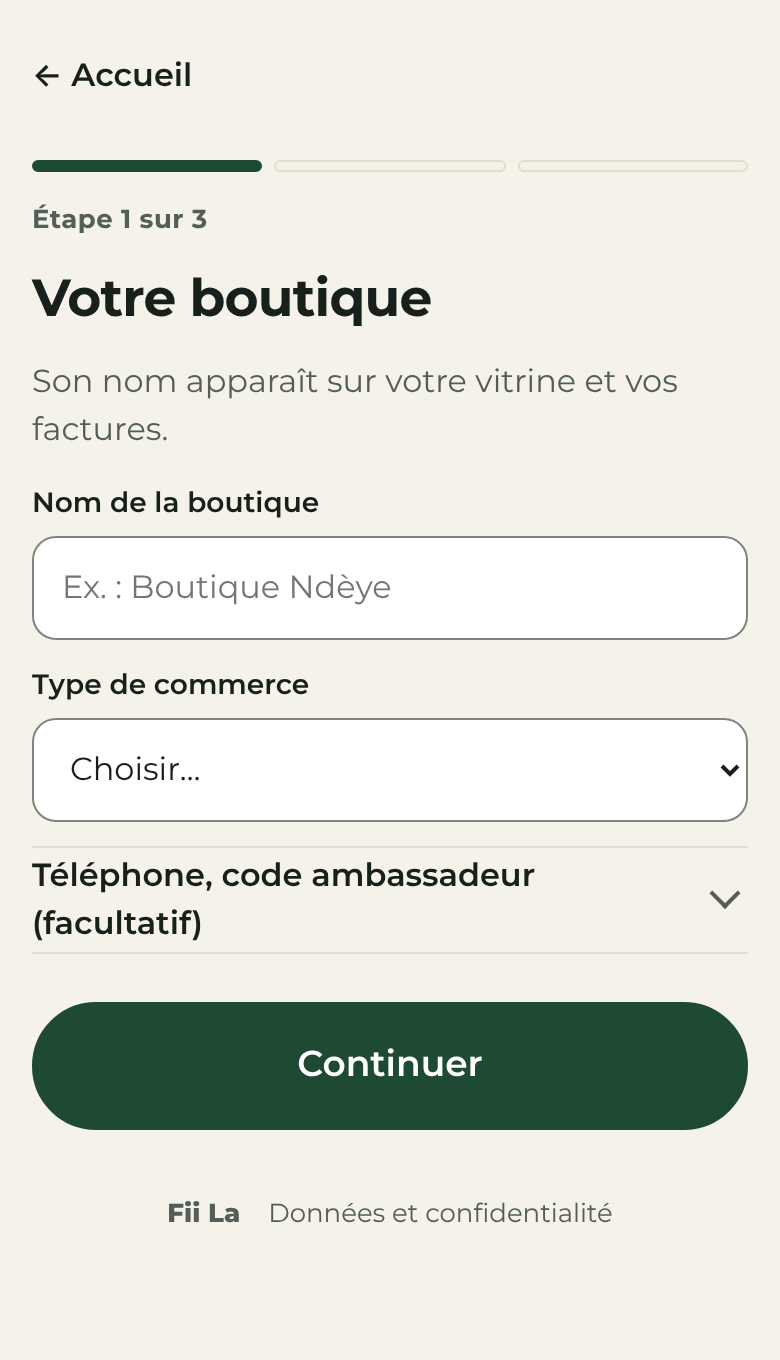
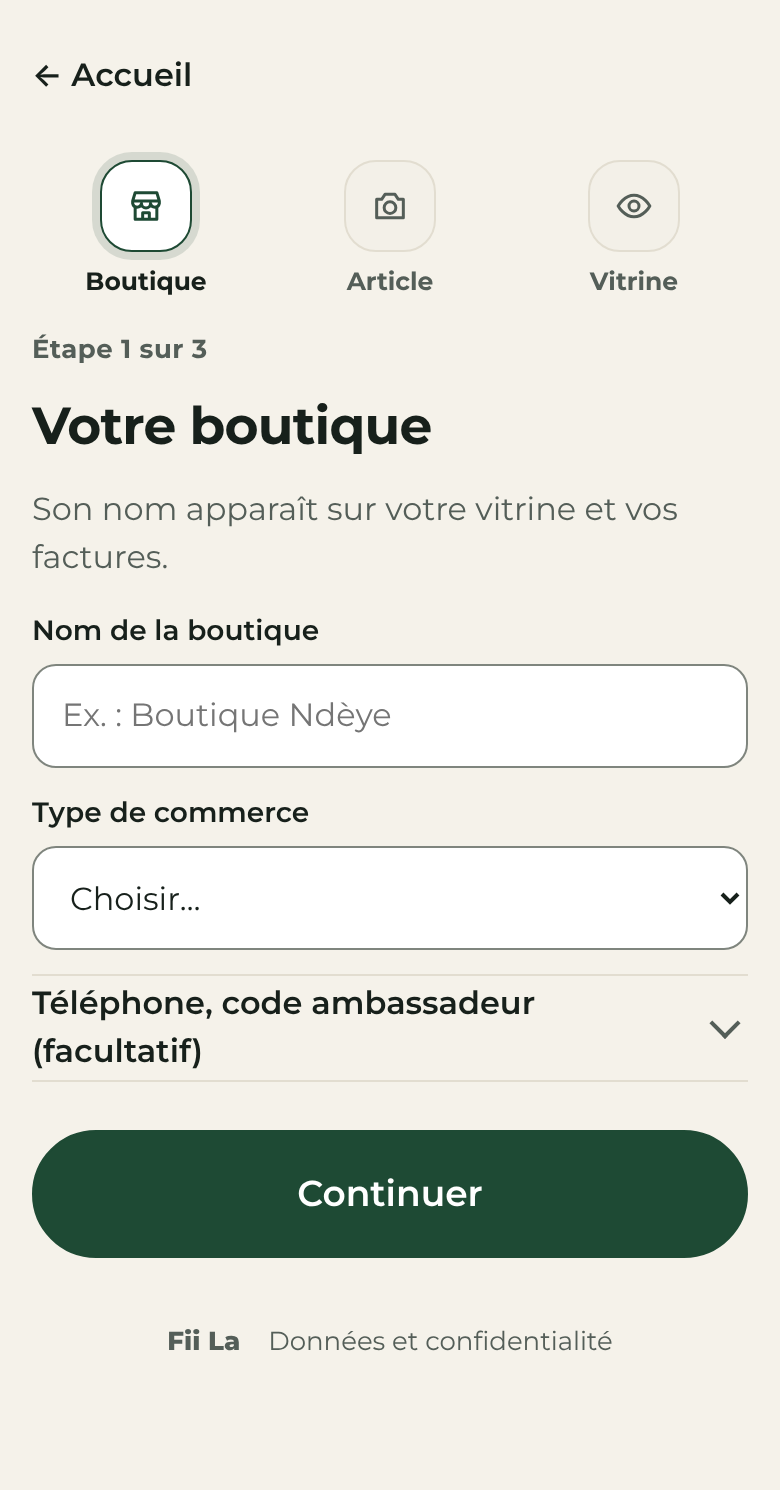
Accueil v2 (lot 3) : découverte après une action ; démarrage de la boutique ludique (badges, cartes de félicitations, carte finale)
Claude-Session: https://claude.ai/code/session_017YReozxuCfYpxhCwcYgwRE

diff --git a/web/app.js b/web/app.js
@@ -622,7 +622,7 @@
     var c = LS.get('fiila.flags', null);
     if (c && Date.now() - c.at < 6 * 3600e3) NUDGE_FLAGS = c.v;
     if (!c || Date.now() - c.at >= 6 * 3600e3) api('fiila_app_flags', {}).then(function (v) { NUDGE_FLAGS = v; LS.set('fiila.flags', { at: Date.now(), v: v }); }, function () {});
-    return NUDGE_FLAGS || { nudges: true, onboarding: true };
+    return NUDGE_FLAGS || { nudges: true, onboarding: true, discover: true };
   }
   function nudgeState() {
     var st = LS.get('fiila.nudges', null) || {};
@@ -772,6 +772,36 @@
       h('a', { class: 'invite-row', id: 'invite-link', href: '#/parrainer', onclick: function () { close(); } }, icon('gift', 24), h('span', null, 'Inviter un proche'),
         h('span', { class: 'chev', 'aria-hidden': 'true' }, icon('chev', 18)))));
     close = openSheet(back);
+  }
+  /* ----- Découverte après une action (accueil v2, lot 3). La tâche du lien reste l'action principale ; dessous, une seule
+     proposition discrète et masquable, plus « Voir tous les services » (arbitrage A2 du fondateur, 20/10 23:36).
+     « × » = 7 jours de silence pour ce contexte, deux fois = plus jamais. Réglage du back-office discover_after (0 = rien). */
+  var AFTER_LS = 'fiila.after';
+  var AFTER_CTX = ['order', 'sent', 'course'];
+  TRACKABLE.discover = [];
+  AFTER_CTX.forEach(function (c) { ['shown', 'click', 'hide', 'all'].forEach(function (a) { TRACKABLE.discover.push(c + ':' + a); }); });
+  ['fiche', 'event'].forEach(function (c) { TRACKABLE.discover.push(c + ':all'); });
+  function afterOn() { var f = nudgeFlags(); return onboardingOn() && f.discover !== false; }
+  function servicesLink(ctx) {
+    return h('button', { class: 'after-all', type: 'button', id: 'after-all', onclick: function () { track('discover', ctx + ':all'); servicesSheet(); } }, 'Voir tous les services');
+  }
+  // o : { icon, title, cta, href }
+  function afterTask(ctx, o) {
+    if (!afterOn()) return null;
+    var st = LS.get(AFTER_LS, null) || {}, me = st[ctx] || {};
+    if ((me.d || 0) >= 2 || (me.until && Date.now() < me.until)) return null;
+    var box = h('aside', { class: 'after', id: 'after-' + ctx, 'aria-label': 'Suggestion' },
+      h('span', { class: 'after-ic', 'aria-hidden': 'true' }, icon(o.icon, 20)),
+      h('div', { class: 'after-t' }, h('b', null, o.title),
+        h('div', { class: 'after-row' },
+          h('a', { class: 'after-cta', id: 'after-' + ctx + '-go', href: o.href, onclick: function () { track('discover', ctx + ':click'); } }, o.cta, icon('chev', 14)),
+          servicesLink(ctx))),
+      h('button', { class: 'after-x', type: 'button', 'aria-label': 'Masquer', id: 'after-' + ctx + '-hide', onclick: function () {
+        var x = LS.get(AFTER_LS, null) || {}; var m = x[ctx] || {}; m.d = (m.d || 0) + 1; m.until = Date.now() + 7 * 864e5; x[ctx] = m; LS.set(AFTER_LS, x);
+        track('discover', ctx + ':hide'); box.remove();
+      } }, icon('close', 16)));
+    trackWhenVisible(box, 'discover', ctx + ':shown');
+    return box;
   }
   // « Installer l'app » : à partir de la deuxième visite (une visite = une session du navigateur).
   function visitCount() {
@@ -3820,7 +3850,9 @@
       if (r.state !== 'ok') return page(stateCard('⦸', 'Lien livreur indisponible', 'L’adresse a été désactivée ou le lien n’est pas valide.'), footer());
       var pg = page(courierKey() ? backBtn('Mes courses', '#/livreur') : null, h('p', { class: 'eyebrow' }, 'Livraison'),
         liveShare(token, r.place.entry, { kind: 'courier', title: 'Prêt à partir ?', startLabel: 'Démarrer la livraison', who: 'L’expéditeur et le client voient', initial: r.status }),
-        fiche(r.place, { wide: true, voice: r.place.has_voice ? voicePlayer(voiceFrom(token, 'course'), r.place.voice_secs) : null }), footer(true));
+        fiche(r.place, { wide: true, voice: r.place.has_voice ? voicePlayer(voiceFrom(token, 'course'), r.place.voice_secs) : null }),
+        courierKey() ? null : afterTask('course', { icon: 'moto', title: 'Vous livrez souvent ?', cta: 'Mon espace livreur : toutes vos courses', href: '#/livreur' }),
+        footer(true));
       pg.classList.add('wide');
       return pg;
     }, function (e) { return page(stateCard('!', 'Impossible d’afficher la livraison', errText(e), retryBtn())); });
@@ -3935,7 +3967,8 @@
         : 'La porte, un repère, où se garer. Un lien à envoyer.'),
       h('a', { class: 'btn ghost discover-cta', id: 'discover-cta', href: (isMeeting ? '#/rdv/nouveau' : '#/new') + qs({ retour: token }),
         onclick: function () { track('discovery_cta', variant); } }, icon(isMeeting ? 'cal' : 'cam', 22), h('span', null, isMeeting ? 'Créer un événement' : 'Créer mon adresse')),
-      h('p', { class: 'hint' }, 'Gratuit. Sans compte.'));
+      h('p', { class: 'hint' }, 'Gratuit. Sans compte.'),
+      afterOn() ? servicesLink(isMeeting ? 'event' : 'fiche') : null);
     trackWhenVisible(block, 'discovery_shown', variant);
     return block;
   }
@@ -4048,6 +4081,8 @@
         iconBtn('a', { class: 'btn', id: 'share-relatives', href: waLink('Mon adresse, avec la photo de l’entrée : ' + url), target: '_blank', rel: 'noopener noreferrer',
           onclick: function () { track('share_initiated', 'whatsapp_address'); } }, 'chat', 'Envoyer sur WhatsApp'),
         h('a', { class: 'btn link', href: '#/m/' + placeId, style: 'align-self:flex-start' }, 'Voir mon adresse')) : null,
+      backInvoice ? (shopKey() || (ME && ME.shop) ? null : afterTask('order', { icon: 'shop', title: 'Vous vendez aussi ?', cta: 'Ouvrir ma boutique gratuite', href: '#/boutique' }))
+        : afterTask('sent', { icon: 'ask', title: 'Vous livrez ou vendez ?', cta: 'Demander l’adresse de vos clients', href: '#/demande/nouvelle' }),
       feedSection(2, { id: 'done-feed', title: 'Boutiques à découvrir', sub: 'Commandez sans compte, livré à la bonne porte.' }),
       !authed() && sent >= 2 ? nudgeCard('sent-nudge', 'Gardez vos adresses', 'Retrouvez-les même si vous changez de téléphone.',
         '#/compte' + qs({ mode: 'inscription', source: 'nudge' }), function () { LS.set('fiila.nudge.until', Date.now() + 14 * 864e5); }) : null,
@@ -4735,11 +4770,32 @@
   ['name:done', 'product:done', 'product:skip', 'vitrine:open', 'share:click', 'resume:open'].forEach(function (v) { (TRACKABLE.shop_setup = TRACKABLE.shop_setup || []).push(v); });
   function setupState() { return LS.get(SETUP_LS, null) || {}; }
   function setupPending() { var st = setupState(); return !!(st.started && !st.done && (shopKey() || (ME && ME.shop))); }
+  // Trois badges qui se débloquent (fondateur, 21/10 00:47 : « des cartes dynamiques gratifiantes… rendre ça amusant »).
+  var SETUP_BADGES = [['shop', 'Boutique'], ['cam', 'Article'], ['eye', 'Vitrine']];
+  function setupBadges(n) {
+    return h('ol', { class: 'setup-badges', role: 'progressbar', 'aria-valuemin': '1', 'aria-valuemax': '3', 'aria-valuenow': String(n), 'aria-label': 'Étape ' + n + ' sur 3' },
+      SETUP_BADGES.map(function (b, i) {
+        var st = i + 1 < n ? 'done' : i + 1 === n ? 'now' : 'next';
+        return h('li', { class: 'sb sb-' + st }, h('span', { class: 'sb-ic', 'aria-hidden': 'true' }, icon(st === 'done' ? 'check' : b[0], 20)), h('span', { class: 'sb-l' }, b[1]));
+      }));
+  }
+  // Carte de félicitations de l'étape qui vient d'être franchie (une seule fois).
+  function setupWin(n) {
+    var st = setupState();
+    if (!st.just || st.just.step !== n - 1) return null;
+    var j = st.just; delete st.just; LS.set(SETUP_LS, st);
+    var t = n === 2 ? ['Étape 1 réussie', '« ' + j.name + ' » est créée', 'Prochaine étape : votre premier article. Une photo et un prix suffisent.']
+      : ['Étape 2 réussie', 'Votre premier article est prêt', 'Dernière étape : ouvrir votre vitrine. Vos clientes pourront commander.'];
+    return h('section', { class: 'setup-win', id: 'setup-win', role: 'status' },
+      h('span', { class: 'setup-win-ic', 'aria-hidden': 'true' }, icon('check', 24)),
+      h('div', null, h('p', { class: 'setup-win-k' }, t[0]), h('b', { class: 'wrapword' }, t[1]), h('span', null, t[2])),
+      h('span', { class: 'setup-win-spark', 'aria-hidden': 'true' }, h('i'), h('i'), h('i'), h('i'), h('i')));
+  }
   function setupFrame(n, title, text, body) {
     return page(backBtn(n === 1 ? 'Accueil' : 'Ma boutique', n === 1 ? '#/' : '#/boutique'),
       h('section', { class: 'setup', id: 'shop-setup', 'data-step': String(n) },
-        h('div', { class: 'setup-prog', role: 'progressbar', 'aria-valuemin': '1', 'aria-valuemax': '3', 'aria-valuenow': String(n), 'aria-label': 'Étape ' + n + ' sur 3' },
-          [1, 2, 3].map(function (i) { return h('i', { class: i <= n ? 'on' : null }); })),
+        setupBadges(n),
+        setupWin(n),
         h('p', { class: 'setup-step' }, 'Étape ' + n + ' sur 3'),
         h('h1', null, title), text ? h('p', { class: 'muted' }, text) : null,
         body),
@@ -4757,7 +4813,7 @@
       sapi('fiila_shop_save', { p: { name: f.name.trim(), phone: f.phone.trim() || null, ninea: null, business_type: f.type } }).then(function (r) {
         if (r && r.key) LS.set(SHOP_LS, { id: r.shop.id, key: r.key, linked: authed() || undefined });
         track('shop_created', authed() ? 'account' : 'no_account'); bumpTx(); attribute('shop', null, r.key || shopKey(), ask.value());
-        track('shop_setup', 'name:done'); LS.set(SETUP_LS, { started: Date.now() });
+        track('shop_setup', 'name:done'); LS.set(SETUP_LS, { started: Date.now(), just: { step: 1, name: f.name.trim() } });
         if (ambCode.trim()) api('fiila_ambassador_link', { p_key: r.key || shopKey(), p_code: ambCode.trim() }).then(function (x) { toast('Boutique créée, accompagnée par ' + x.ambassador + '.'); }, function (e) { toast('Boutique créée. Code ambassadeur : ' + errText(e)); });
         ME = null; go('#/boutique/demarrer');
       }, function (e) { btn.disabled = false; errBox(err, e); });
@@ -4800,6 +4856,7 @@
         return sapi('fiila_product_save', { p: p });
       }).then(function () {
         track('product_created', photos.count() ? 'photo' : 'no_photo'); track('shop_setup', 'product:done');
+        var st = setupState(); st.just = { step: 2 }; LS.set(SETUP_LS, st);
         render();
       }, function (e) { btn.disabled = false; errBox(err, e); });
     } }, 'Continuer');
@@ -4819,7 +4876,13 @@
       sapi('fiila_shop_vitrine', { p: { public: true } }).then(function (r) {
         FEED_CACHE = null; track('shop_setup', 'vitrine:open');
         shop.public = true; shop.slug = r.slug;
-        render();
+        // Grande carte de félicitations, avec la place gratuite du fil si la boutique en obtient une.
+        sapi('fiila_shop_feed', { p_on: null }).then(null, function () { return null; }).then(function (fd) {
+          celebrate({ icon: 'star', kicker: 'Boutique ouverte', title: 'Bravo, ' + shop.name + ' est en ligne !',
+            gain: fd && fd.rank ? 'Place n° ' + fd.rank + ' / 25' : null,
+            sub: (fd && fd.rank ? 'Votre place offerte dans le fil Fii La. ' : '') + 'Vos clientes peuvent commander dès maintenant, sans compte, et vous donner leur adresse exacte.',
+            cta: 'Partager ma vitrine', onClose: function () { render(); } });
+        });
       }, function (e) { btn.disabled = false; errBox(err, e); });
     } }, 'Ouvrir ma vitrine');
     return setupFrame(3, 'Votre vitrine', 'Voici ce que verront vos clientes. Elles commandent sans compte et donnent leur adresse à la fin.', h('div', { class: 'stack' },
@@ -5812,6 +5875,10 @@
           h('p', { class: 'saved-ok' }, icon('check', 18), 'Commande envoyée à ' + s.name + '.'),
           h('p', { class: 'small muted' }, o.address_state === 'pending' ? 'Dernière étape : donnez votre adresse de livraison.' : 'La boutique a votre commande.'),
           s.phone ? iconBtn('a', { class: 'btn ghost', id: 'notify-shop', href: waTo(s.phone, 'Bonjour, je viens de commander (N° ' + o.ref + ') : ' + invUrl), target: '_blank', rel: 'noopener noreferrer' }, 'chat', 'Prévenir la boutique sur WhatsApp') : null));
+      }
+      if (q && q.nouvelle === '1' && o.address_state !== 'pending' && !shopKey() && !(ME && ME.shop)) {
+        var at = afterTask('order', { icon: 'shop', title: 'Vous vendez aussi ?', cta: 'Ouvrir ma boutique gratuite', href: '#/boutique' });
+        if (at) act.push(h('div', { class: 'no-print' }, at));
       }
       if (o.address_state === 'pending' && o.request_token && !delivered) {
         act.push(iconBtn('a', { class: 'btn big no-print', id: 'give-address-btn', href: '#/d/' + o.request_token + qs({ f: token }) }, 'pin', 'Donner mon adresse de livraison'));
@@ -7626,6 +7693,20 @@
               h('div', { class: 'wal-bar', 'aria-hidden': 'true' }, h('i', { class: 'paid', style: 'width:' + pct + '%' })));
           }));
       })(),
+      (function () {
+        var dv = d.discover || {};
+        var ctx = [['order', 'Après une commande → ouvrir sa boutique'], ['sent', 'Après une adresse envoyée → demander une adresse'], ['course', 'Après une course → espace livreur'],
+          ['fiche', 'Fiche reçue'], ['event', 'Événement reçu']];
+        function v(c, a) { return Number(dv[c + ':' + a] || 0); }
+        return h('div', { class: 'stack tight', id: 'bo-discover' },
+          h('div', { class: 'bo-panel-h' }, h('h3', null, 'Découverte après une action'), d.discover_on === false ? boBadge('muted', 'Coupée (Réglages)') : boBadge('ok', 'Active')),
+          boTable([
+            { label: 'Contexte', get: function (x) { return x[1]; } },
+            { label: 'Vue', get: function (x) { return x[0] === 'fiche' || x[0] === 'event' ? '—' : boNum(v(x[0], 'shown')); }, cls: 'num' },
+            { label: 'Suivie', get: function (x) { return x[0] === 'fiche' || x[0] === 'event' ? '—' : boNum(v(x[0], 'click')); }, cls: 'num' },
+            { label: 'Tous les services', get: function (x) { return boNum(v(x[0], 'all')); }, cls: 'num' },
+            { label: 'Masquée', get: function (x) { return x[0] === 'fiche' || x[0] === 'event' ? '—' : boNum(v(x[0], 'hide')); }, cls: 'num' }], ctx, { id: 'bo-discover-table' }));
+      })(),
       h('p', { class: 'small muted' }, 'Tâches réussies sur la même période (tous parcours confondus) :'),
       h('div', { class: 'bo-type-chips' }, tasks.map(function (x) { return h('span', { class: 'chip' }, x[0] + ' : ' + boNum(x[1] || 0)); })),
       h('div', { class: 'row' },
@@ -7753,7 +7834,8 @@
     sms_verify: ['Code SMS obligatoire pour rejoindre une équipe de boutique', '0 = non, 1 = oui'],
     amb_manager_llm: ['Manager Fii La Carrière avec IA (clé d’API à saisir dans Supabase)', '0 = non, 1 = oui'],
     nudges: ['Suggestions discrètes dans l’application (découverte progressive)', '0 = non, 1 = oui'],
-    onboarding_v2: ['Nouvel accueil (mes activités, « Découvrir les services »)', '1 = nouvel accueil, 0 = ancien'] };
+    onboarding_v2: ['Nouvel accueil (mes activités, « Découvrir les services »)', '1 = nouvel accueil, 0 = ancien'],
+    discover_after: ['Suggestion discrète après une action (commande, adresse envoyée, course)', '0 = non, 1 = oui'] };
   // « Prénom · rôle » tel que gardé au journal, avec le rôle en clair.
   function boActor(a) { return String(a || '—').replace(/ · ([a-z_]+)$/, function (m, r) { return ' · ' + (BO_ROLES[r] || r); }); }
   function boActionLabel(a, d) {

diff --git a/web/styles.css b/web/styles.css
@@ -1613,9 +1613,6 @@ kbd{font:600 11.5px/1 ui-monospace,SFMono-Regular,Menlo,monospace;padding:4px 6p
 /* Démarrage guidé de la boutique (lot 2, 21/10) : une carte par étape, progression, un bouton principal. */
 .setup{display:flex;flex-direction:column;gap:14px}
 .setup h1{margin:0}
-.setup-prog{display:grid;grid-template-columns:repeat(3,1fr);gap:6px}
-.setup-prog i{height:6px;border-radius:6px;background:var(--surface-2);border:1px solid var(--line)}
-.setup-prog i.on{background:var(--green);border-color:var(--green)}
 .setup-step{margin:0;font-size:13px;font-weight:700;color:var(--muted);letter-spacing:.02em}
 .setup-later{align-self:center;padding:10px 14px;color:var(--muted);font-size:14px;text-decoration:underline}
 .setup-preview{border-radius:22px;background:var(--surface);border:1px solid var(--line);padding:14px;display:flex;flex-direction:column;gap:12px;box-shadow:var(--shadow-card)}
@@ -1630,3 +1627,37 @@ kbd{font:600 11.5px/1 ui-monospace,SFMono-Regular,Menlo,monospace;padding:4px 6p
 .setup-ok .btn{align-self:stretch}
 @keyframes setup-pop{from{transform:scale(.6);opacity:0}to{transform:none;opacity:1}}
 @media (prefers-reduced-motion: reduce){.setup-ok-ic{animation:none}}
+.setup-badges{list-style:none;margin:0;padding:0;display:grid;grid-template-columns:repeat(3,1fr);gap:8px}
+.sb{display:flex;flex-direction:column;align-items:center;gap:6px;font-size:12.5px;font-weight:700;color:var(--muted)}
+.sb-ic{width:46px;height:46px;border-radius:16px;display:flex;align-items:center;justify-content:center;background:var(--surface-2);border:1.5px solid var(--line);color:var(--muted);transition:transform .3s}
+.sb-now .sb-ic{background:var(--surface);border-color:var(--green);color:var(--green);box-shadow:0 0 0 4px color-mix(in srgb,var(--green) 14%,transparent)}
+.sb-now{color:var(--ink)}
+.sb-done .sb-ic{background:var(--green);border-color:var(--green);color:var(--lime);animation:setup-pop .45s cubic-bezier(.22,.61,.36,1)}
+.sb-done{color:var(--green)}
+.setup-win{position:relative;overflow:hidden;display:flex;gap:12px;align-items:center;padding:14px 16px;border-radius:20px;background:var(--green);color:var(--on-green);animation:setup-in .5s cubic-bezier(.22,.61,.36,1)}
+.setup-win>div{display:flex;flex-direction:column;gap:2px;min-width:0;position:relative;z-index:1}
+.setup-win b{font-size:16.5px;line-height:1.25}
+.setup-win span{font-size:13px;opacity:.9}
+.setup-win-k{margin:0;font-size:12px;font-weight:700;letter-spacing:.04em;text-transform:uppercase;color:var(--lime)}
+.setup-win-ic{flex:none;width:44px;height:44px;border-radius:14px;background:var(--lime);color:var(--green);display:flex;align-items:center;justify-content:center;position:relative;z-index:1;animation:setup-pop .5s .15s both cubic-bezier(.22,.61,.36,1)}
+.setup-win-spark{position:absolute;inset:0;pointer-events:none}
+.setup-win-spark i{position:absolute;width:7px;height:7px;border-radius:2px;background:var(--lime);opacity:0;animation:setup-spark 1.4s .2s ease-out forwards}
+.setup-win-spark i:nth-child(1){left:12%;top:70%}
+.setup-win-spark i:nth-child(2){left:38%;top:80%;animation-delay:.35s;background:#fff}
+.setup-win-spark i:nth-child(3){left:62%;top:75%;animation-delay:.25s}
+.setup-win-spark i:nth-child(4){left:80%;top:85%;animation-delay:.45s;background:#fff}
+.setup-win-spark i:nth-child(5){left:92%;top:65%;animation-delay:.3s}
+@keyframes setup-in{from{transform:translateY(10px) scale(.97);opacity:0}to{transform:none;opacity:1}}
+@keyframes setup-spark{0%{opacity:0;transform:translateY(0) rotate(0)}20%{opacity:1}100%{opacity:0;transform:translateY(-60px) rotate(160deg)}}
+@media (prefers-reduced-motion: reduce){.setup-win,.setup-win-ic,.sb-done .sb-ic{animation:none}.setup-win-spark{display:none}}
+
+/* Découverte après une action (lot 3, 21/10) : une ligne discrète sous la tâche, masquable. */
+.after{display:grid;grid-template-columns:40px 1fr auto;gap:12px;align-items:start;padding:14px;border-radius:18px;background:var(--surface);border:1px solid var(--line)}
+.after-ic{width:40px;height:40px;border-radius:13px;background:var(--surface-2);color:var(--green);display:flex;align-items:center;justify-content:center}
+.after-t{display:flex;flex-direction:column;gap:6px;min-width:0}
+.after-t b{font-size:15px}
+.after-row{display:flex;flex-wrap:wrap;align-items:center;gap:6px 16px}
+.after-cta{display:inline-flex;align-items:center;gap:4px;color:var(--green);font-weight:700;font-size:14px;text-decoration:none;min-height:32px}
+.after-all{border:0;background:none;padding:6px 0;color:var(--muted);font:inherit;font-size:13.5px;text-decoration:underline;cursor:pointer;align-self:flex-start}
+.after-x{width:36px;height:36px;border:0;border-radius:10px;background:transparent;color:var(--muted);display:flex;align-items:center;justify-content:center;cursor:pointer}
+.after-x:focus-visible,.after-all:focus-visible,.after-cta:focus-visible{outline:3px solid var(--focus);outline-offset:2px}

diff --git a/docs/HANDOFF.md b/docs/HANDOFF.md
@@ -56,6 +56,7 @@ Fii La permet d'expliquer **une seule fois** comment arriver à une entrée : po
 | Back-office v2 et rubrique Ambassadeurs native (20/10) | **En production (run 39374985550, tout vert, Chrome + Safari)** : présentation v2 (barre latérale sombre groupée, en-têtes, indicateurs à icône, panneau « À traiter », fiches à en-tête, recherche) ; Ambassadeurs : files à valider / à verser, liste filtrable, fiche avec toutes les actions, « Renvoyer en formation », « Supprimer le profil » (connexion récente, refusé si déjà payé, tracé au journal). Migration `20261020800000_fiila_bo_ambassadors.sql` | `tests/ambassadors*.mjs`, `tests/backoffice.test.mjs` |
 | Audit système du 20/10 et back-office v3 | **Audit** : 38 suites vertes ; base : aucune table exposée, fonctions d'administration toutes protégées (sauf `fiila_bo_me`, `fiila_bo_invite_get`, `fiila_bo_invite_accept`, publiques par conception) ; erreurs 400 de l'API = tests en production (clés invalides volontaires) et une reconfirmation de mot de passe ; 18 clés étrangères sans index → migration `20261020910000_fiila_fk_indexes` ; 42 photos d'articles de démonstration hors format 4:5 → migration `20261020900000_fiila_demo_photos_4x5` (+ générateur corrigé) ; 3 photos de la vraie boutique du fondateur hors format (non touchées : recadrées à la prochaine modification) ; protection des mots de passe divulgués désactivée (réglage Supabase, action #49). **Back-office v3** : barre vitrée (fil d'Ariane, recherche), recherche globale ⌘K, onglets du bas sur téléphone, squelettes de chargement | `tests/backoffice.test.mjs` (11), `tests/demo.sql.test.mjs` |
 | Manager Fii La Carrière et découverte progressive (20/10) | **En production (run 39386581007, tout vert ; fonction `fiila-manager` v1 déployée, sans clé : réponses selon les règles)** : Manager (missions du jour calculées selon le cap du mois et l'avancement des commerçants, messages aux étapes, conversation classée avec réponse selon les règles, problèmes remontés, analyse quotidienne et propositions soumises au Head of Stratégie) ; IA en option (fonction `fiila-manager`, réglage `amb_manager_llm`, clé `ANTHROPIC_API_KEY` à saisir par le fondateur, action #50) ; rôle d'équipe « Head of Stratégie » (`strategy`) ; back-office « Manager Carrière ». Découverte progressive : une suggestion discrète à la fois selon l'usage (accueil → boutique ; boutique → articles, vitrine, livreur, photos, équipe), 3 par jour, « Plus tard » 7 jours ; réglage `nudges` ; taux dans Croissance. Migrations `20261021000000_fiila_amb_manager`, `20261021100000_fiila_nudges` | `tests/manager.sql.test.mjs` (9), `tests/managerfn.sql.test.mjs` (5), `tests/nudges.test.mjs` (4), `tests/ambassadors.test.mjs` (8) |
+| Découverte après une action (21/10, lot 3) + cartes de félicitations | **Livré, en cours de mise en ligne** : sous la tâche du lien, une proposition discrète et masquable + « Voir tous les services » — adresse envoyée à une demande (→ demander une adresse), adresse donnée pour une commande (→ ouvrir sa boutique), course sans espace livreur (→ espace livreur), fiche et événement reçus (« Voir tous les services » sous la découverte existante). « × » = 7 jours, deux fois = jamais. Réglage `discover_after`. Démarrage de la boutique ludique (fondateur, 21/10 00:47) : 3 badges qui se débloquent, carte « Étape réussie » animée, grande carte « Bravo, … est en ligne ! » avec confettis et place offerte du fil. Migration `20261021600000_fiila_discover_after` | `tests/aftertask.test.mjs` (6), `tests/shopsetup.test.mjs` (6) |
 | Démarrage guidé de la boutique (21/10, lot 2) | **Livré, en cours de mise en ligne** : `#/boutique` sans boutique → étape 1 (nom, type ; téléphone, code ambassadeur et recommandation repliés) → `#/boutique/demarrer` étape 2 (premier article : photo facultative, nom, prix ; « Plus tard » = boutique enregistrée, vitrine fermée) → étape 3 (aperçu, « Ouvrir ma vitrine » explicite) → « Votre boutique est prête » + partage WhatsApp. Étape déduite de l'état réel (reprise) ; accueil : « Reprendre ma boutique » tant que le démarrage n'est pas fini. Réglage `onboarding_v2` = 0 → ancien formulaire. Back-office : entonnoir dans Croissance → Parcours d'accueil. Migration `20261021500000_fiila_shop_setup` | `tests/shopsetup.test.mjs` (6) ; 8 suites adaptées |
 | Vide-dressing ouvert (21/10) | **Livré, en cours de mise en ligne** : tout type d'article (Vêtements, Chaussures, Sacs/bijoux/accessoires, Beauté non entamée, Maison, Électronique, Enfants, Autre ; pas d'alimentation) ; genre et âge seulement pour « Enfants » ; anciens articles = « Enfants » ; règle photo : aucune personne reconnaissable ; interdits élargis (médicaments, contrefaçons, armes, animaux…) ; vitrine filtrée par catégorie d'abord ; back-office : catégorie affichée dans la file de vérification. Migration `20261021400000_fiila_vd_open` | `tests/videdressing.sql.test.mjs` (5), `tests/videdressing.test.mjs` (4) |
 | Accueil v2 (20/10, lot 1) | **Livré, en cours de mise en ligne** : accueil léger (action principale : « Reprendre mon adresse » si commencée, sinon l'activité la plus utilisée sur 14 jours, sinon « Créer mon adresse ») ; « Mes activités » (raccourcis des services utilisés ou existants sur le téléphone/compte ; retirer ne retire aucun accès) ; « Découvrir les services » (6 services + Inviter un proche) ; listes vides masquées ; « Installer l'app » dès la 2ᵉ visite ; thème = réglage du téléphone. Réglage `onboarding_v2` (0 = ancien accueil). Back-office : Croissance → « Parcours d'accueil ». Migration `20261021300000_fiila_onboarding` | `tests/onboarding.test.mjs` (8), `tests/backoffice.test.mjs` (12), e2e, navigation, shop, referrals mis à jour |
@@ -99,6 +100,7 @@ Fii La permet d'expliquer **une seule fois** comment arriver à une entrée : po
 | 19/10 08:02 | Règle permanente : interface simple et intuitive, hiérarchie nette, jamais trop de filtres ou d'options affichés ; à appliquer à toute l'application et aux builds à venir | Fondateur |
 | 19/10 07:15 | Vide-dressing : pilote tenu par Fii La validé ; Ambassadeurs : règle « on paie un commerçant actif » et 3 niveaux validés, récompenses entre 2 000 et 10 000 FCFA (fixées à 2 000 / 5 000 / 10 000) ; construire l'espace ambassadeur puis le vide-dressing. Commission du vide-dressing non précisée : 15 % par défaut (réglage), **à confirmer** ; plafond 20 commerçants par mois et par ambassadeur (réglage), **à confirmer** | Fondateur |
 | 19/10 20:04 | Équipe de la boutique : ajouter un membre (administrateur ou éditeur) avec son nom et son numéro, invitation envoyée par WhatsApp. Droits par défaut fixés par le Builder (propriétaire / administrateur / éditeur, voir §2), modifiables sur demande | Fondateur (demande), Builder (droits) |
+| 21/10 00:47 | Enchaîner le lot 3 ; création de boutique ludique : cartes dynamiques gratifiantes et carte de félicitations à chaque grande étape | Fondateur |
 | 21/10 00:24 | Lancer le lot 2 (démarrage guidé de la boutique) sans attendre la recette du lot 1 | Fondateur |
 | 20/10 23:36 | Parcours d'accueil v2 validé (relu par ChatGPT) : accueil léger, « Mes activités » (le premier usage d'un service ajoute son raccourci), « Découvrir les services » ; A1 : action principale = activité la plus utilisée sur 14 jours ; A2 : après une action, une proposition + « Voir tous les services » ; ordre des lots : accueil → démarrage boutique → découverte après action. Vide-dressing ouvert à tout type d'article, les enfants deviennent une catégorie | Fondateur |
 | 20/10 23:01 | Thème : plus de sélecteur, l'application suit le réglage du téléphone | Fondateur |
@@ -221,6 +223,7 @@ Les tests créent puis suppriment des données synthétiques. Ne jamais lancer l
 
 | Date (Dakar) | Action | Commit / preuve |
 |---|---|---|
+| 21/10 01:35 | Lot 3 (découverte après une action, réglage, mesures, tableau au back-office) et cartes de félicitations du démarrage de la boutique (badges, « Étape réussie », grande carte finale avec confettis et place du fil) | ce commit |
 | 21/10 00:55 | Lot 2 : démarrage guidé de la boutique (3 étapes, reprise, « Plus tard », vitrine ouverte sur choix explicite, partage), mesures et entonnoir au back-office | ce commit |
 | 21/10 00:10 | Vide-dressing ouvert à tout type d'article (catégorie ; genre et âge pour « Enfants » seulement), textes, règle photo, filtres de la vitrine, back-office, CDP mis à jour | ce commit |
 | 20/10 23:59 | Accueil v2, lot 1 : accueil léger, Mes activités, Découvrir les services, réglage `onboarding_v2`, rubrique « Parcours d'accueil » au back-office ; 42 suites + onboarding vertes en local (Chromium) | ce commit |

diff --git a/docs/BACK-OFFICE.md b/docs/BACK-OFFICE.md
@@ -45,10 +45,10 @@ C'est la base qui vérifie chaque droit (`fiila.staff_can`). L'interface ne fait
 | Manager Carrière (20/10) | Cap du mois (objectifs de commerçants actifs et nouveaux, types et quartiers prioritaires, phrase lue par chaque ambassadeur) fixé par le Head of Stratégie ; propositions du Manager (formation, missions, constats) à accepter ou écarter ; analyse IA à la demande (si activée) ; canal WhatsApp du Manager (numéro, réglé par le Head of Stratégie ; API branchée ou lien direct) ; conversations avec chaque ambassadeur (messages classés et canal application ou WhatsApp, problèmes en tête, bouton WhatsApp vers l'ambassadeur, réponse au nom de l'équipe envoyée aussi sur WhatsApp si la fenêtre de 24 h est ouverte), missions récentes et retours ; catalogue des missions (créer, retirer, taux de réalisation) |
 | Fil | Les 25 places gratuites et la liste d'attente |
 | Finances | 6 derniers mois, gains d'ambassadeurs à verser et versés, ventes de vide-dressing à reverser |
-| Croissance | Parcours d'accueil (20/10) — avec l'entonnoir du démarrage guidé de la boutique (21/10 : nom et type → premier article → vitrine ouverte → partage touché, « Plus tard », « Reprendre ») : « Découvrir les services » ouvert, chaque service découvert, raccourci touché, retiré de l'accueil, et tâches réussies (adresses, événements, demandes, boutiques, articles, commandes, livreurs) sur 30 jours, compteurs anonymes ; origine des arrivées, parrainages ; découverte progressive : chaque suggestion vue, suivie, écartée (30 jours) |
+| Croissance | Parcours d'accueil (20/10) — avec la découverte après une action (21/10 : par contexte, vue, suivie, « tous les services », masquée) et l'entonnoir du démarrage guidé de la boutique (21/10 : nom et type → premier article → vitrine ouverte → partage touché, « Plus tard », « Reprendre ») : « Découvrir les services » ouvert, chaque service découvert, raccourci touché, retiré de l'accueil, et tâches réussies (adresses, événements, demandes, boutiques, articles, commandes, livreurs) sur 30 jours, compteurs anonymes ; origine des arrivées, parrainages ; découverte progressive : chaque suggestion vue, suivie, écartée (30 jours) |
 | Équipe | Membres, rôles (dont Head of Stratégie et Développement : cap de Fii La Carrière, propositions du Manager, missions), invitations |
 | Journal | Toutes les actions de l'équipe (qui, quoi, quand), non modifiables depuis le back-office |
-| Réglages | Nouvel accueil (`onboarding_v2` : 1 = nouvel accueil, 0 = ancien, sans redéploiement), commission du vide-dressing, gains des 3 niveaux d'ambassadeur, plafond mensuel, code SMS obligatoire pour rejoindre une équipe de boutique, Manager avec IA (0/1), suggestions de découverte (0/1), API WhatsApp du Manager (0/1) ; bornes contrôlées |
+| Réglages | Nouvel accueil (`onboarding_v2` : 1 = nouvel accueil, 0 = ancien, sans redéploiement), suggestion après une action (`discover_after`), commission du vide-dressing, gains des 3 niveaux d'ambassadeur, plafond mensuel, code SMS obligatoire pour rejoindre une équipe de boutique, Manager avec IA (0/1), suggestions de découverte (0/1), API WhatsApp du Manager (0/1) ; bornes contrôlées |
 
 Actions possibles sur la fiche d'une boutique :
 - suspendre, avec un motif obligatoire. La vitrine est fermée, la boutique sort du fil et ne peut pas rouvrir sa vitrine elle-même ;
